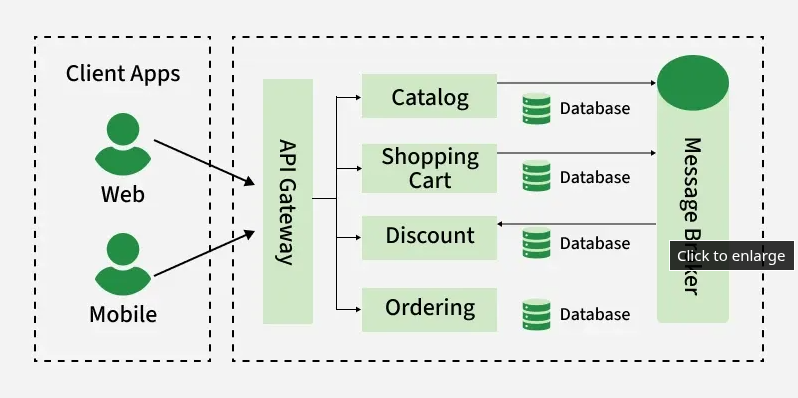
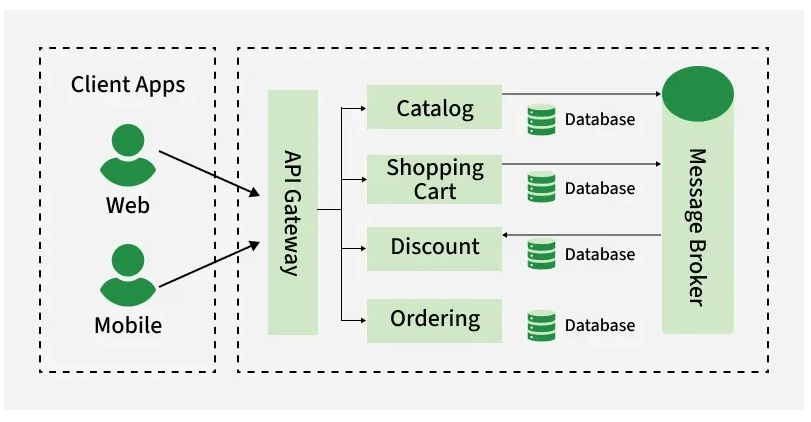
Popolato documento con immagini

diff --git a/Docs/2_Chapters/01_introduzione.tex b/Docs/2_Chapters/01_introduzione.tex
@@ -2,45 +2,74 @@
 
 \section{Contesto e motivazione}
 
-Negli ultimi anni, la progettazione di sistemi software complessi ha registrato una progressiva transizione da architetture monolitiche verso architetture distribuite basate su servizi indipendenti. 
+Negli ultimi anni, la progettazione di sistemi software complessi ha registrato una progressiva transizione da architetture monolitiche verso architetture distribuite basate su servizi indipendenti.
 Tale evoluzione è stata guidata dall’esigenza di realizzare sistemi più scalabili, manutenibili e capaci di adattarsi a requisiti in continua evoluzione.
 
-In questo contesto, l’architettura a microservizi si è affermata come uno dei paradigmi più rilevanti. 
-Essa propone la scomposizione di un’applicazione in un insieme di servizi autonomi, ciascuno responsabile di una specifica funzionalità e comunicante tramite interfacce ben definite. 
+In questo contesto, l’architettura a microservizi si è affermata come uno dei paradigmi più rilevanti (Figura~\ref{fig:monolite_vs_microservizi}).
+Essa propone la scomposizione di un’applicazione in un insieme di servizi autonomi, ciascuno responsabile di una specifica funzionalità e comunicante tramite interfacce ben definite.
 Questo approccio consente di ridurre l’accoppiamento tra componenti, facilitare l’evoluzione incrementale del sistema e migliorare la resilienza complessiva dell’architettura \cite{fowlerMicroservices}.
 
-Parallelamente, la diffusione di tecnologie web standard ha favorito l’adozione di modelli architetturali basati su API REST (Representational State Transfer), che costituiscono uno stile architetturale ampiamente utilizzato per la comunicazione tra sistemi distribuiti. 
-Le API REST si basano su interazioni stateless, risorse identificabili e interfacce uniformi, favorendo interoperabilità e semplicità di integrazione tra componenti eterogenei \cite{fieldingRest}.
+\begin{figure}[H]
+    \centering
+    \includegraphics[width=0.67\textwidth]{1.0_monolite_vs_microservizi.png}
+    \caption{Architettura monolitica vs microservizi.}
+    \label{fig:monolite_vs_microservizi}
+\end{figure}
 
-Un ulteriore sviluppo significativo riguarda l’integrazione di interfacce conversazionali, che consentono agli utenti di interagire con i sistemi software tramite linguaggio naturale. 
+Parallelamente, la diffusione di tecnologie web standard ha favorito l’adozione di modelli architetturali basati su API REST (Representational State Transfer), che costituiscono uno stile architetturale ampiamente utilizzato per la comunicazione tra sistemi distribuiti.
+Le API REST si basano su interazioni stateless, risorse identificabili e interfacce uniformi, favorendo interoperabilità e semplicità di integrazione tra componenti eterogenei \cite{fieldingRest}. Un esempio di struttura distribuita che sfrutta questi principi è riportato in Figura~\ref{fig:microservizi}.
+
+\begin{figure}[H]
+    \centering
+    \includegraphics[width=0.7\textwidth]{1.2_microservizi.png}
+    \caption{Struttura tipica di un'architettura a microservizi con API Gateway \cite{geeksforgeeks}.}
+    \label{fig:microservizi}
+\end{figure}
+
+Un ulteriore sviluppo significativo riguarda l’integrazione di interfacce conversazionali, che consentono agli utenti di interagire con i sistemi software tramite linguaggio naturale.
 Questo paradigma migliora l’accessibilità e l’usabilità delle applicazioni, riducendo la complessità dell’interazione e rendendo i sistemi più intuitivi anche per utenti non esperti \cite{nlpSurvey}.
 
 Nel dominio delle applicazioni per la gestione delle finanze personali, l’adozione combinata di architetture a microservizi, API REST e interfacce conversazionali apre nuove opportunità per la progettazione di sistemi modulari, scalabili e orientati all’utente, capaci di integrare funzionalità avanzate di analisi dei dati e di interazione.
 
 \section{Problema}
 
-I sistemi tradizionali per la gestione delle finanze personali presentano spesso limitazioni architetturali e funzionali. 
-In particolare, molti di essi sono progettati come applicazioni monolitiche, caratterizzate da un forte accoppiamento tra componenti e da una limitata separazione delle responsabilità. 
+I sistemi tradizionali per la gestione delle finanze personali presentano spesso limitazioni architetturali e funzionali.
+In particolare, molti di essi sono progettati come applicazioni monolitiche, caratterizzate da un forte accoppiamento tra componenti e da una limitata separazione delle responsabilità (Figura~\ref{fig:monolite}).
+
+\begin{figure}[H]
+    \centering 
+    \includegraphics[width=0.7\textwidth]{1.1_monolite.png} 
+    \caption{Esempio di struttura di un'applicazione e-commerce monolitica \cite{geeksforgeeks}.}
+    \label{fig:monolite}
+\end{figure}
+
 Questo approccio rende complessa l’evoluzione del sistema, ostacola la manutenzione del codice e limita l’introduzione di nuove funzionalità.
-
-Inoltre, l’interazione con tali sistemi avviene prevalentemente tramite interfacce grafiche tradizionali, che richiedono all’utente di navigare manualmente tra diverse schermate e inserire dati in modo strutturato. 
+Inoltre, l’interazione con tali sistemi avviene prevalentemente tramite interfacce grafiche tradizionali, che richiedono all’utente di navigare manualmente tra diverse schermate e inserire dati in modo strutturato.
 Questo approccio risulta spesso poco intuitivo e inefficiente, in particolare per utenti non esperti o in presenza di un elevato numero di operazioni da gestire.
+Dal punto di vista dell’esperienza utente, tali modalità di interazione introducono ulteriori criticità.
+L’inserimento manuale delle transazioni tramite form strutturati comporta un elevato carico cognitivo e operativo: la necessità di specificare categorie, importi e date per ogni singola operazione richiede tempo e attenzione, riducendo la probabilità di un utilizzo continuativo dell’applicazione nel lungo periodo (Figura~\ref{fig:tradizionale_Jarfin}).
 
-Dal punto di vista dell’esperienza utente, tali modalità di interazione introducono ulteriori criticità. 
-L’inserimento manuale delle transazioni tramite form strutturati comporta un elevato carico cognitivo e operativo: la necessità di specificare categorie, importi e date per ogni singola operazione richiede tempo e attenzione, riducendo la probabilità di un utilizzo continuativo dell’applicazione nel lungo periodo.
+\begin{figure}[H]
+    \centering 
+    \includegraphics[width=0.7\textwidth]{1.3_tradizionale_Jarfin.png} 
+    \caption{Confronto tra il flusso di inserimento dati tradizionale e quello di JarFin.}
+    \label{fig:tradizionale_Jarfin}
+\end{figure}
 
-In molti casi, l’utente è costretto ad adattarsi al modello dati del software, piuttosto che interagire secondo il proprio modello mentale. 
+\newpage
+
+In molti casi, l’utente è costretto ad adattarsi al modello dati del software, piuttosto che interagire secondo il proprio modello mentale.
 Manca infatti un approccio \textit{frictionless} che consenta di registrare una spesa o interrogare i propri dati finanziari con la stessa naturalezza con cui tali informazioni vengono comunicate verbalmente.
 
 Dal punto di vista architetturale, la mancanza di modularità limita inoltre la scalabilità del sistema e ne riduce la robustezza, rendendo più complessa l’integrazione con nuovi servizi e l’evoluzione futura dell’applicazione.
 
 Pertanto, emerge la necessità di progettare un sistema software che consenta di:
 \begin{itemize}
-\item gestire le finanze personali in modo strutturato e affidabile;
-\item garantire modularità e separazione delle responsabilità;
-\item supportare architetture distribuite scalabili;
-\item fornire un’interfaccia utente intuitiva, inclusa l’interazione tramite linguaggio naturale;
-\item consentire un’analisi efficiente dei dati finanziari.
+    \item gestire le finanze personali in modo strutturato e affidabile;
+    \item garantire modularità e separazione delle responsabilità;
+    \item supportare architetture distribuite scalabili;
+    \item fornire un’interfaccia utente intuitiva, inclusa l’interazione tramite linguaggio naturale;
+    \item consentire un’analisi efficiente dei dati finanziari.
 \end{itemize}
 
 \section{Obiettivi del progetto}
@@ -49,27 +78,34 @@ L’obiettivo del presente lavoro è la progettazione e lo sviluppo di \textit{J
 
 Gli obiettivi specifici del progetto includono:
 \begin{itemize}
-\item la progettazione di un’architettura software modulare basata su microservizi;
-\item la realizzazione di servizi indipendenti per la gestione delle transazioni e l’analisi dei dati;
-\item l’implementazione di un sistema di comunicazione basato su API REST;
-\item l’integrazione di un modulo di Natural Language Understanding per l’elaborazione di comandi in linguaggio naturale;
-\item la realizzazione di un’interfaccia web per l’interazione con il sistema;
-\item l’applicazione di principi di progettazione algoritmica e modellazione software.
+    \item la progettazione di un’architettura software modulare basata su microservizi;
+    \item la realizzazione di servizi indipendenti per la gestione delle transazioni e l’analisi dei dati;
+    \item l’implementazione di un sistema di comunicazione basato su API REST;
+    \item l’integrazione di un modulo di Natural Language Understanding per l’elaborazione di comandi in linguaggio naturale;
+    \item la realizzazione di un’interfaccia web per l’interazione con il sistema;
+    \item l’applicazione di principi di progettazione algoritmica e modellazione software.
 \end{itemize}
 
 \section{Soluzione proposta}
 
-Per soddisfare gli obiettivi definiti, il sistema è stato principalmente suddiviso nei seguenti componenti:
+Per soddisfare gli obiettivi definiti, il sistema è stato principalmente suddiviso nei seguenti componenti (Figura \ref{fig:soluzione_architetturale}):
 \begin{itemize}
-\item \textbf{Web Application}, che rappresenta l’interfaccia utente e consente l’interazione con il sistema tramite browser;
-\item \textbf{API Gateway}, che funge da punto di accesso centralizzato e gestisce l’instradamento delle richieste verso i microservizi appropriati;
-\item \textbf{Accounting Service}, responsabile della gestione e della persistenza delle transazioni finanziarie all’interno di un database PostgreSQL;
-\item \textbf{Analytics Service}, che elabora i dati finanziari e genera report e statistiche;
-\item \textbf{NLU Service}, che consente l’elaborazione di comandi in linguaggio naturale e la loro traduzione in operazioni eseguibili;
-\item \textbf{Database PostgreSQL}, che garantisce la persistenza e l’integrità dei dati.
+    \item \textbf{Web Application}, che rappresenta l’interfaccia utente e consente l’interazione con il sistema tramite browser;
+    \item \textbf{API Gateway}, che funge da punto di accesso centralizzato e gestisce l’instradamento delle richieste verso i microservizi appropriati;
+    \item \textbf{Accounting Service}, responsabile della logica di business relativa alla gestione delle transazioni finanziarie e della validazione dei dati;
+    \item \textbf{Analytics Service}, che elabora i dati finanziari storici per generare report e statistiche aggregate;
+    \item \textbf{NLU Service}, che consente l’elaborazione di comandi in linguaggio naturale e la loro traduzione in operazioni strutturate;
+    \item \textbf{Database PostgreSQL}, istanza relazionale centralizzata che garantisce la persistenza, l’integrità referenziale e la condivisione dei dati tra i servizi funzionali.
 \end{itemize}
 
-La comunicazione tra i componenti avviene tramite API REST e scambio di dati in formato JSON, secondo i principi architetturali definiti nello stile REST \cite{fieldingRest}. 
+\begin{figure}[H]
+    \centering 
+    \includegraphics[width=0.9\textwidth]{1.4_soluzione_architetturale.png} 
+    \caption{Architettura specifica proposta per il progetto JarFin.}
+    \label{fig:soluzione_architetturale}
+\end{figure}
+
+La comunicazione tra i componenti avviene tramite API REST e scambio di dati in formato JSON, secondo i principi architetturali definiti nello stile REST \cite{fieldingRest}.
 L’utilizzo del framework Spring Boot consente lo sviluppo di microservizi indipendenti e facilmente configurabili, migliorando la modularità e la manutenibilità complessiva del sistema \cite{springboot}.
 
 L’architettura complessiva del sistema è illustrata nei diagrammi presenti nei capitoli successivi, che evidenziano le relazioni tra i diversi microservizi e il ruolo centrale dell’API Gateway.
@@ -78,10 +114,10 @@ L’architettura complessiva del sistema è illustrata nei diagrammi presenti ne
 
 I principali contributi del presente lavoro includono:
 \begin{itemize}
-\item la progettazione e validazione di un’architettura software distribuita basata su microservizi per la gestione delle finanze personali;
-\item l’integrazione di un modulo di Natural Language Understanding in un sistema finanziario reale, consentendo l’interazione tramite linguaggio naturale;
-\item la realizzazione di un flusso completo di acquisizione, elaborazione e analisi dei dati finanziari tramite servizi indipendenti;
-\item l’adozione di un’architettura basata su API REST e API Gateway per migliorare la scalabilità e ridurre l’accoppiamento tra componenti;
-\item l’applicazione di principi di progettazione algoritmica e architetturale in un contesto concreto e funzionante;
-\item la validazione dell’approccio proposto attraverso implementazione e testing.
+    \item la progettazione e validazione di un’architettura software distribuita basata su microservizi per la gestione delle finanze personali;
+    \item l’integrazione di un modulo di Natural Language Understanding in un sistema finanziario reale, consentendo l’interazione tramite linguaggio naturale;
+    \item la realizzazione di un flusso completo di acquisizione, elaborazione e analisi dei dati finanziari tramite servizi indipendenti;
+    \item l’adozione di un’architettura basata su API REST e API Gateway per migliorare la scalabilità e ridurre l’accoppiamento tra componenti;
+    \item l’applicazione di principi di progettazione algoritmica e architetturale in un contesto concreto e funzionante;
+    \item la validazione dell’approccio proposto attraverso implementazione e testing.
 \end{itemize}

diff --git a/Docs/2_Chapters/02_metodologia.tex b/Docs/2_Chapters/02_metodologia.tex
@@ -4,7 +4,14 @@
 
 Lo sviluppo del sistema \textit{JarFin} è stato condotto adottando una metodologia Agile, con l’obiettivo di favorire un processo di progettazione incrementale, flessibile e orientato al cambiamento. In particolare, il progetto ha seguito i principi di \textbf{SCRUM}, integrati con l’approccio \textbf{Agile Model Driven Development (AMDD)}, al fine di bilanciare la necessità di una progettazione architetturale solida con i vantaggi dell’iterazione continua e del feedback costante.
 
-SCRUM è stato utilizzato come framework di riferimento per l’organizzazione del lavoro, la pianificazione delle attività e la gestione delle iterazioni di sviluppo. Il ciclo di vita del progetto è stato articolato in sprint di durata indicativa pari a due settimane, ciascuno caratterizzato da obiettivi ben definiti e dalla produzione di un incremento funzionale del sistema. Questa impostazione ha consentito di monitorare costantemente l’avanzamento del progetto e di adattare le scelte progettuali in base alle esigenze emerse durante lo sviluppo \cite{scrum}.
+SCRUM è stato utilizzato come framework di riferimento per l’organizzazione del lavoro, la pianificazione delle attività e la gestione delle iterazioni di sviluppo. Il ciclo di vita del progetto è stato articolato in sprint di durata indicativa pari a due settimane, ciascuno caratterizzato da obiettivi ben definiti e dalla produzione di un incremento funzionale del sistema. Questa impostazione ha consentito di monitorare costantemente l’avanzamento del progetto e di adattare le scelte progettuali in base alle esigenze emerse durante lo sviluppo \cite{scrumOrg}.
+
+\begin{figure}[H]
+    \centering
+    \includegraphics[width=0.9\textwidth]{2.0_scrum_framework.png}
+    \caption{Il framework SCRUM e il ciclo degli Sprint.}
+    \label{fig:scrum_framework}
+\end{figure}
 
 L’approccio AMDD ha guidato le attività di modellazione e progettazione. Invece di definire in modo esaustivo l’intera architettura nelle fasi iniziali, la modellazione è stata condotta in maniera incrementale, producendo modelli essenziali e sufficienti a supportare le decisioni architetturali di ciascuna iterazione. In particolare, sono stati realizzati diagrammi UML per i casi d’uso più rilevanti, successivamente raffinati nel corso dello sviluppo \cite{amdd}. Questo approccio ha permesso di evitare un’eccessiva rigidità progettuale, mantenendo una visione globale del sistema.
 
@@ -44,7 +51,14 @@ Il framework supporta nativamente la creazione di API REST, l’integrazione con
 La persistenza dei dati è affidata a un database relazionale \textbf{PostgreSQL}, scelto per la sua affidabilità, conformità agli standard SQL e supporto a funzionalità avanzate di gestione dei dati. PostgreSQL garantisce l’integrità delle transazioni finanziarie (proprietà ACID) e supporta operazioni di interrogazione efficienti, fondamentali per le funzionalità di analisi offerte dal sistema.
 
 Per semplificare la gestione dell'ambiente di sviluppo e garantire l'isolamento dei dati, l'istanza del database è stata containerizzata tramite \textbf{Docker}.
-Questa scelta architetturale consente di avviare il servizio di persistenza in modo rapido e indipendente dalla configurazione del sistema operativo ospite, evitando installazioni locali invasive e garantendo un ambiente sempre pulito e riproducibile.
+Questa scelta architetturale consente di avviare il servizio di persistenza in modo rapido e indipendente dalla configurazione del sistema operativo ospite, evitando installazioni locali invasive e garantendo un ambiente sempre pulito e riproducibile (Figura~\ref{fig:docker_vm}).
+
+\begin{figure}[H]
+    \centering
+    \includegraphics[width=0.8\textwidth]{2.1_docker_vs_VM.png}
+    \caption{Confronto architetturale tra Macchine Virtuali e Container Docker \cite{geeksforgeeksDocker}.}
+    \label{fig:docker_vm}
+\end{figure}
 
 \subsection{Modulo di Natural Language Understanding}
 
@@ -140,7 +154,14 @@ Per la gestione del ciclo di vita del software sono stati utilizzati due ambient
 
 La build automation e la gestione delle dipendenze del progetto Java sono state affidate ad \textbf{Apache Maven}, garantendo la riproducibilità del processo di compilazione e una gestione centralizzata delle librerie su diverse macchine di sviluppo.
 
+\begin{figure}[H]
+    \centering
+    \includegraphics[width=0.6\textwidth]{2.2_toolchain.png}
+    \caption{Il flusso di lavoro e la toolchain integrata del progetto JarFin.}
+    \label{fig:toolchain}
+\end{figure}
+
 \subsection{Considerazioni sulla toolchain}
 
 L’integrazione degli strumenti descritti ha permesso di coprire l’intero ciclo di vita del software, dalla modellazione iniziale alla verifica della qualità del codice.
-La toolchain adottata rappresenta una soluzione completa e coerente con gli obiettivi del progetto, fornendo un supporto efficace sia allo sviluppo incrementale sia alla validazione tecnica del sistema.
+La toolchain adottata rappresenta una soluzione completa e coerente con gli obiettivi del progetto, fornendo un supporto efficace sia allo sviluppo incrementale sia alla validazione tecnica del sistema (Figura~\ref{fig:toolchain}).

diff --git a/Docs/2_Chapters/06_iterazione_3.tex b/Docs/2_Chapters/06_iterazione_3.tex
@@ -103,6 +103,13 @@ Anche qui, l'integrazione è gestita lato server:
 
 Una funzionalità distintiva della UI è l'integrazione con le \textbf{Web Speech API} native del browser per l'input vocale.
 
+\begin{figure}[H]
+    \centering
+    \includegraphics[width=0.7\textwidth]{6.0_edge_AI.png}
+    \caption{Architettura ibrida "Edge AI"}
+    \label{}
+\end{figure}
+
 \subsection{Strategia "Edge AI" (Client-Side Processing)}
 Invece di inviare flussi audio pesanti al server (che richiederebbero larghezza di banda e costose GPU per la trascrizione), si è optato per l'utilizzo delle \textbf{Web Speech API} native del browser.
 La trascrizione avviene localmente sul dispositivo dell'utente (Edge), e solo il testo risultante viene inviato al backend.

diff --git a/Docs/2_Chapters/04_iterazione_1.tex b/Docs/2_Chapters/04_iterazione_1.tex
@@ -66,7 +66,7 @@ L'applicazione Spring Boot si connette al container in questione tramite il file
 
 \section{Architettura Software e Design Patterns}
 
-Il microservizio implementa un'architettura a strati rigorosa (\textit{Layered Architecture}) per garantire la separazione delle responsabilità (\textit{Separation of Concerns}). Il flusso dei dati attraversa i seguenti layer:
+Il microservizio implementa un'architettura a strati rigorosa (\textit{Layered Architecture}) per garantire la separazione delle responsabilità (\textit{Separation of Concerns}).
 Il flusso dei dati attraversa i seguenti layer, in ordine:
 
 \begin{itemize}
